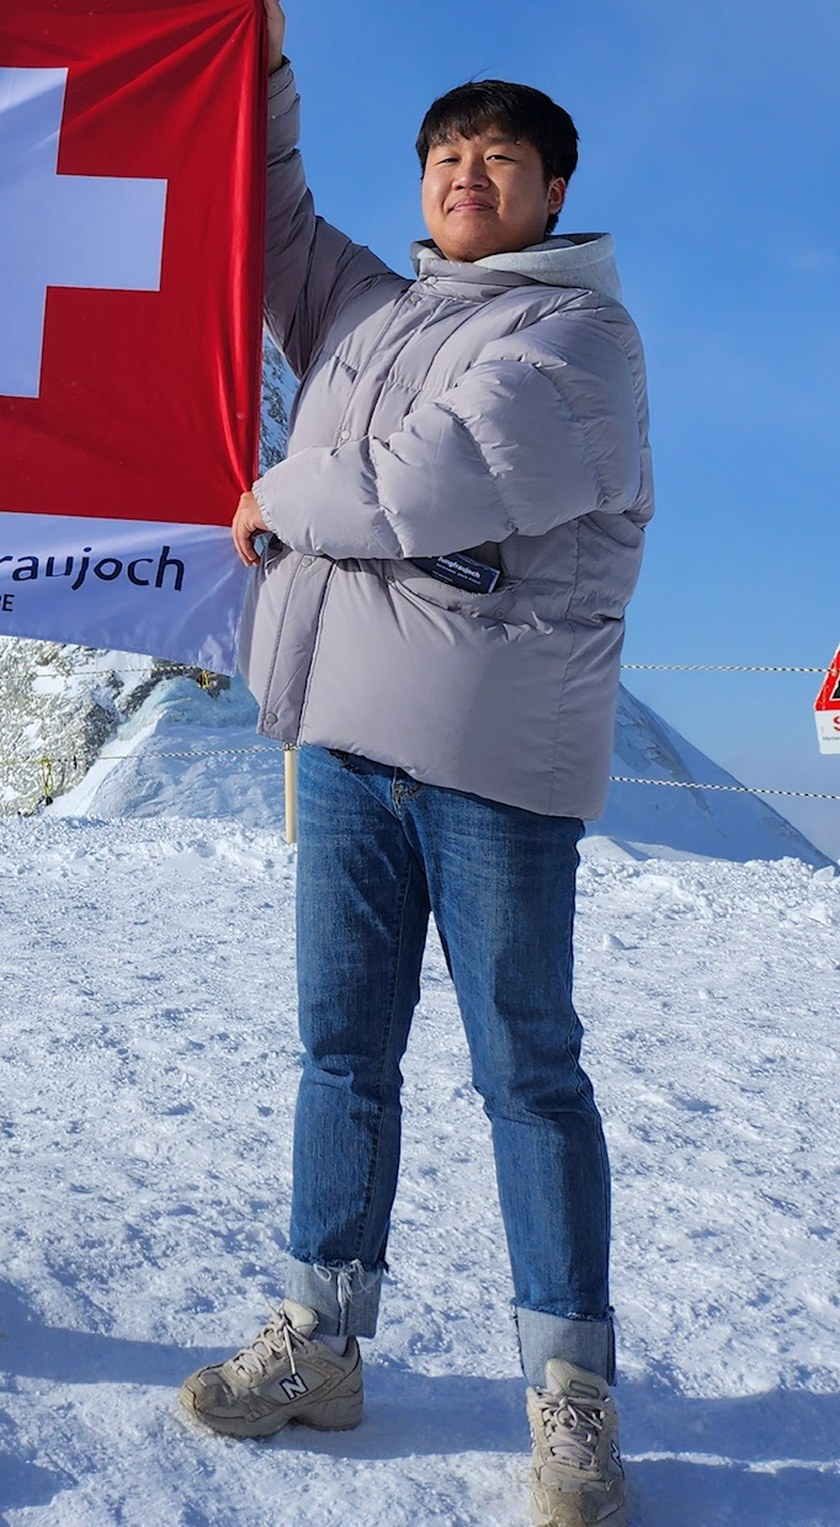
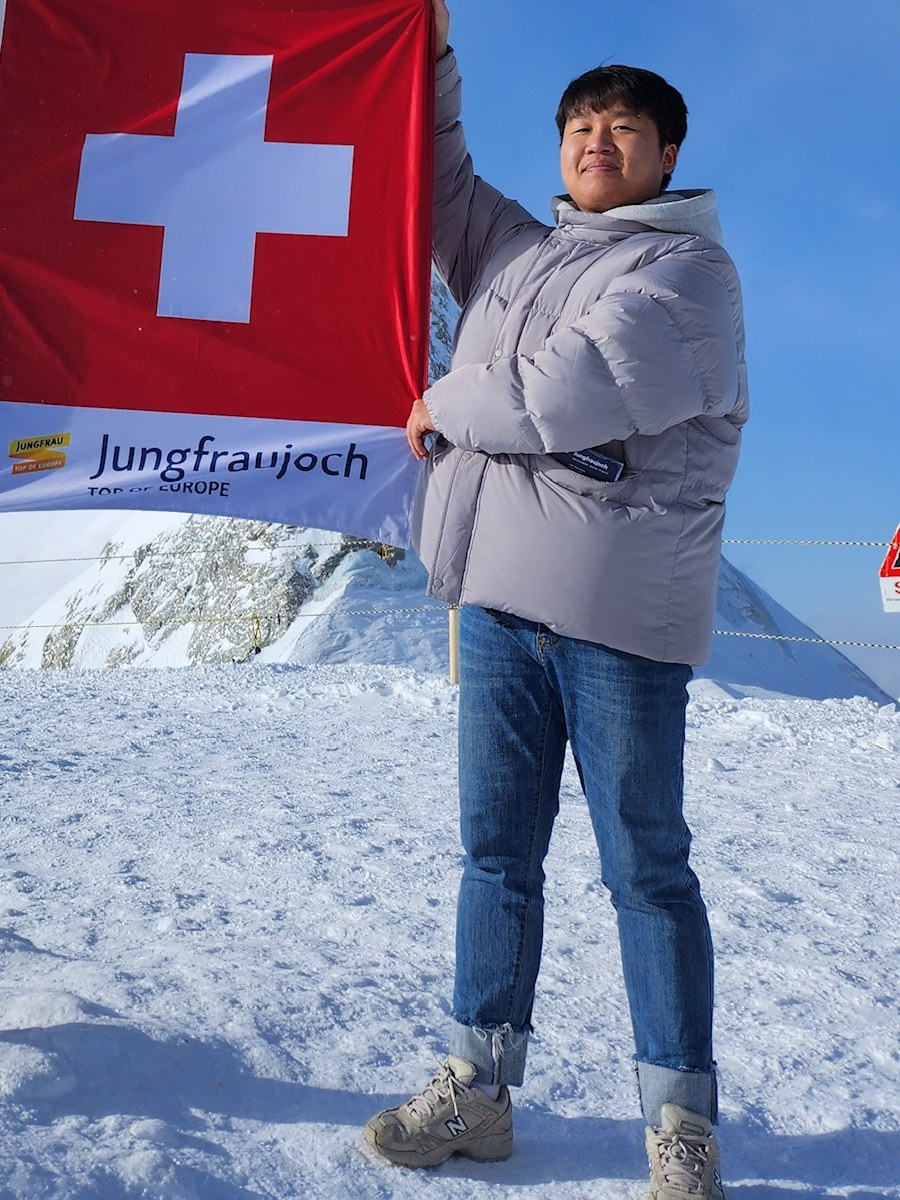
Zoom the profile photo out
Re-crops wider from the source, so the whole figure, the Jungfraujoch banner
and the peak are all in frame. The crop is now 3:4, matching the hero frame
exactly, so the browser crops nothing off it.

diff --git a/index.html b/index.html
@@ -80,7 +80,7 @@
   <header class="profile">
     <div class="profile-media">
       <div class="profile-photo">
-        <img src="assets/profile.jpg?v=4" alt="Chiwoo Roh">
+        <img src="assets/profile.jpg?v=5" alt="Chiwoo Roh">
       </div>
       <div class="social-row">
         <button type="button" class="social-btn copy-email" data-email="chiu.roh@gmail.com" aria-label="Copy email address" title="chiu.roh@gmail.com">
